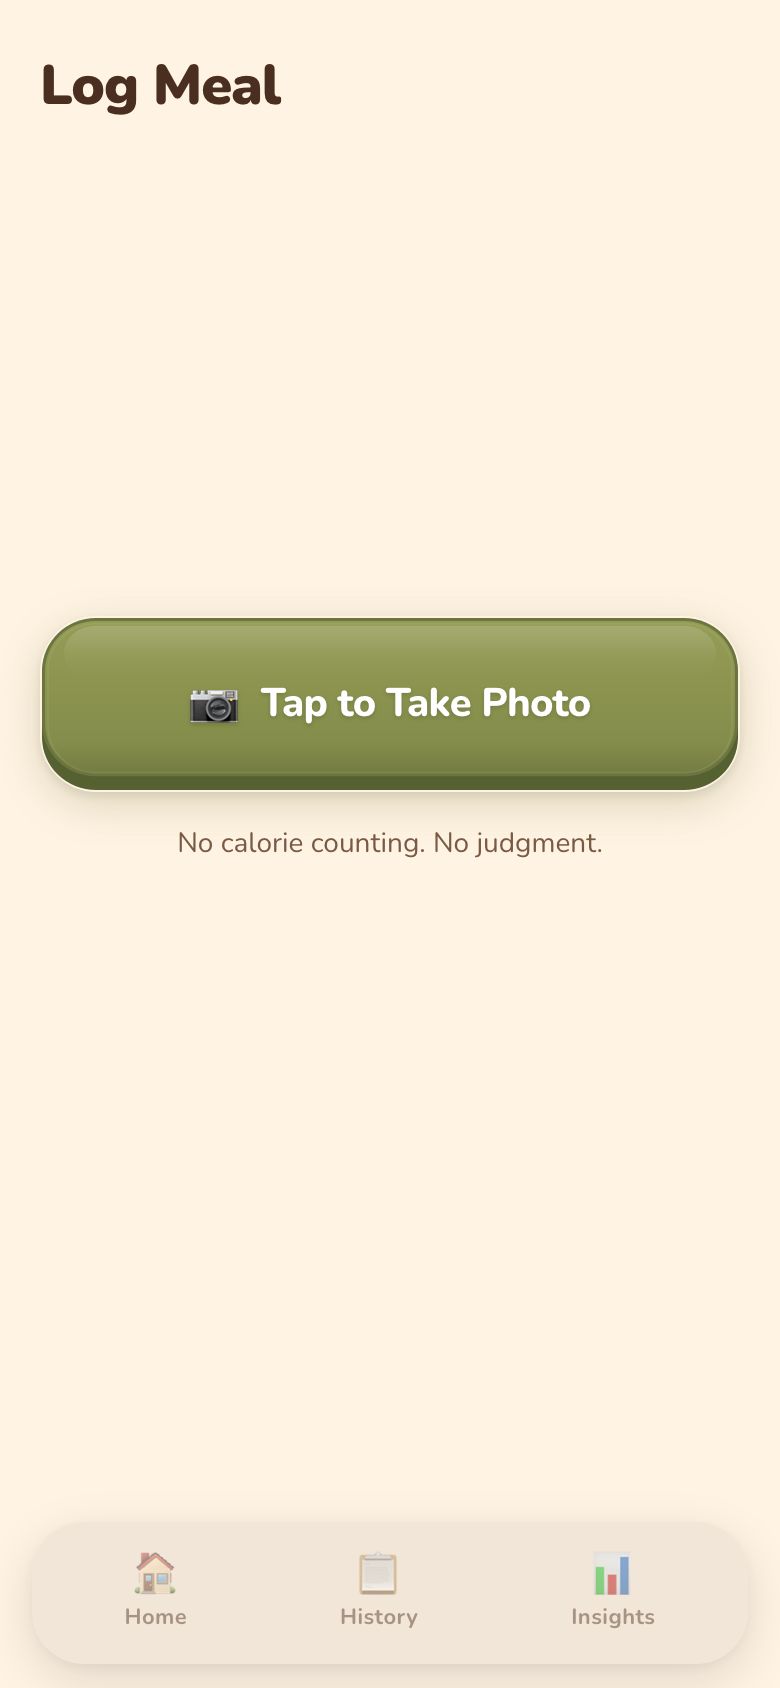
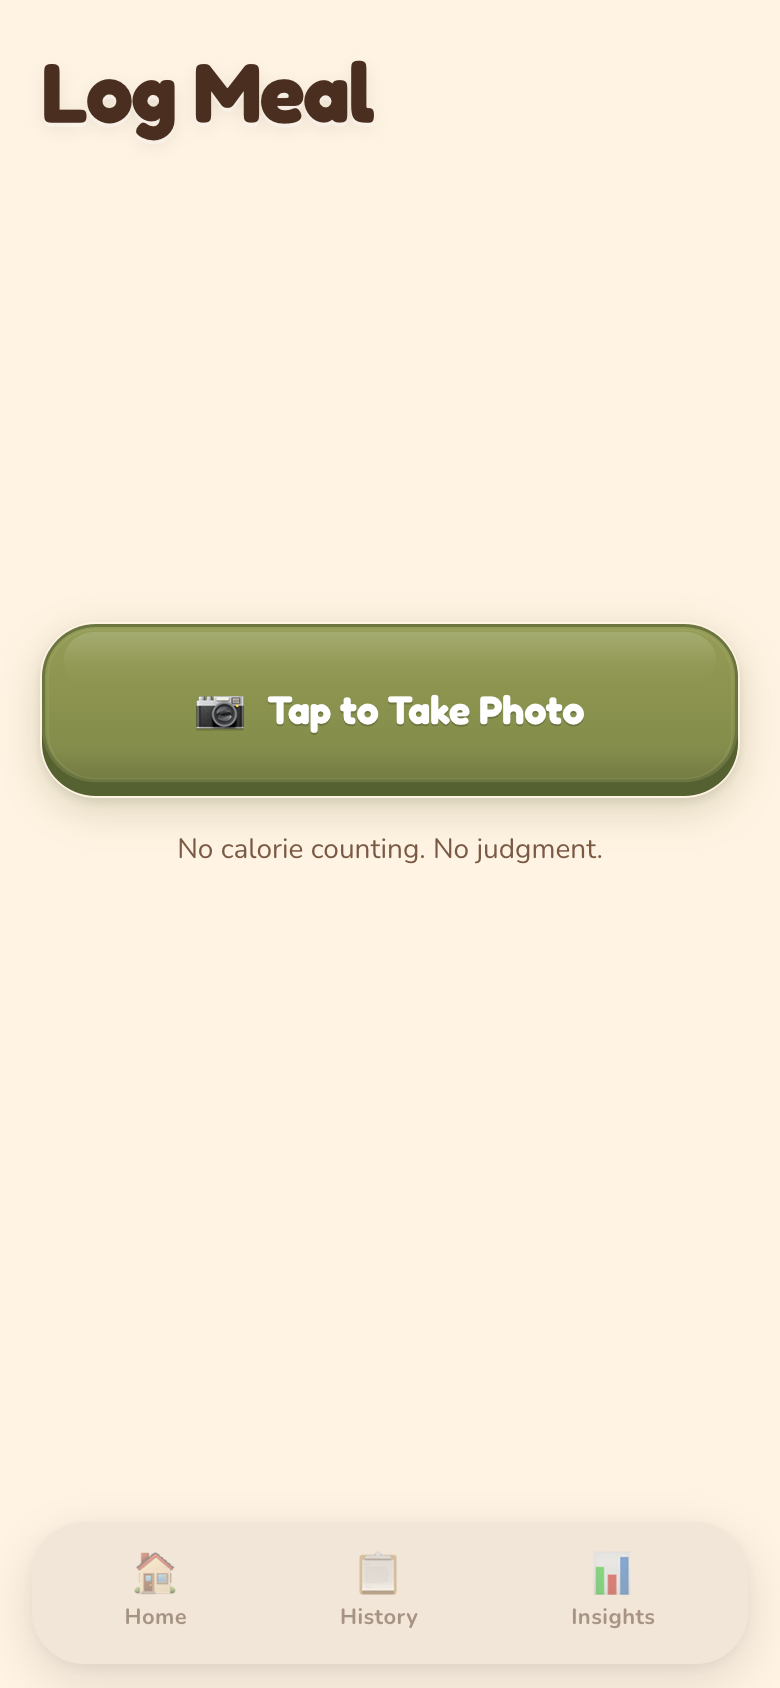
Switch headings and button labels to Fredoka font with text depth
- Import Google Font Fredoka (400-700 weights)
- Headings: Fredoka 700, 42px, line-height 1.05, warm brown #4A2E1F
- Add subtle text depth on headings via white bottom shadow + soft blur
- Button labels: Fredoka 700, 22px with 0 1px 0 dark text-shadow
- Remove inline fontSize override on Home heading
- Regenerate all mockups

diff --git a/src/index.css b/src/index.css
@@ -1,4 +1,4 @@
-@import url('https://fonts.googleapis.com/css2?family=Nunito:wght@400;600;700;800;900&display=swap');
+@import url('https://fonts.googleapis.com/css2?family=Nunito:wght@400;600;700;800;900&family=Fredoka:wght@400;500;600;700&display=swap');
 
 * {
   box-sizing: border-box;
@@ -41,11 +41,11 @@ body {
   padding: 0 32px;
   border: none;
   border-radius: 28px;
-  font-size: 20px;
-  font-weight: 800;
-  letter-spacing: -0.02em;
+  font-family: 'Fredoka', 'Nunito', sans-serif;
+  font-size: 22px;
+  font-weight: 700;
+  letter-spacing: -0.01em;
   cursor: pointer;
-  font-family: inherit;
   position: relative;
   overflow: hidden;
   transition: transform 0.15s cubic-bezier(0.4, 0, 0.2, 1),
@@ -64,7 +64,7 @@ body {
   box-shadow:
     0 6px 20px rgba(113, 122, 64, 0.25),
     0 2px 4px rgba(0, 0, 0, 0.08);
-  text-shadow: 0 1px 2px rgba(0, 0, 0, 0.15);
+  text-shadow: 0 1px 0 rgba(0, 0, 0, 0.18);
 }
 
 .btn-primary:active {
@@ -83,7 +83,7 @@ body {
   box-shadow:
     0 6px 20px rgba(186, 110, 48, 0.25),
     0 2px 4px rgba(0, 0, 0, 0.08);
-  text-shadow: 0 1px 2px rgba(0, 0, 0, 0.12);
+  text-shadow: 0 1px 0 rgba(0, 0, 0, 0.18);
 }
 
 .btn-secondary:active {
@@ -260,10 +260,13 @@ body {
 
 .page-title {
   margin: 0;
-  font-size: 28px;
-  font-weight: 900;
+  font-family: 'Fredoka', 'Nunito', sans-serif;
+  font-size: 42px;
+  font-weight: 700;
+  line-height: 1.05;
   letter-spacing: -0.02em;
   color: #4A2E1F;
+  text-shadow: 0 2px 0 rgba(255, 255, 255, 0.35), 0 3px 10px rgba(0, 0, 0, 0.08);
 }
 
 /* ── Utility classes ── */

diff --git a/src/pages/Home.js b/src/pages/Home.js
@@ -41,7 +41,7 @@ function Home() {
       {showSuccess && <div className="success-flash">Logged!</div>}
 
       <div className="page-header" style={{ textAlign: 'center' }}>
-        <h1 className="page-title" style={{ fontSize: '32px' }}>
+        <h1 className="page-title">
           How's your gut<br />today?
         </h1>
       </div>
